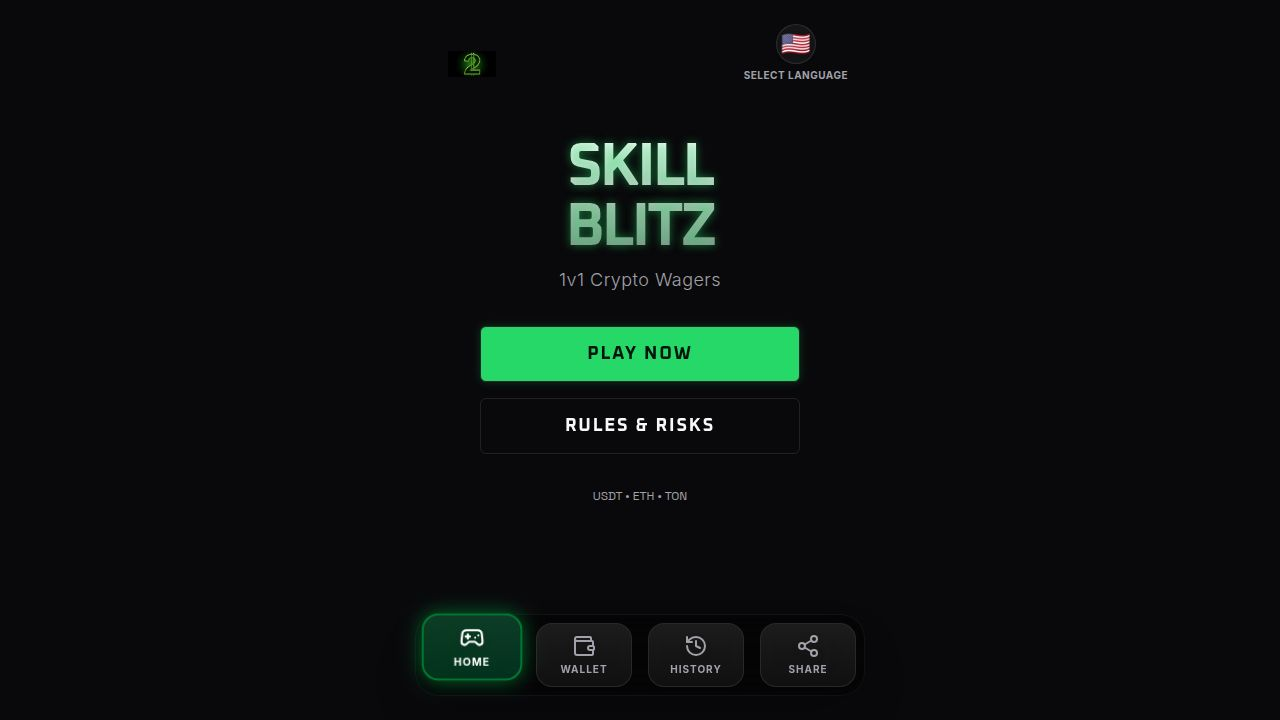
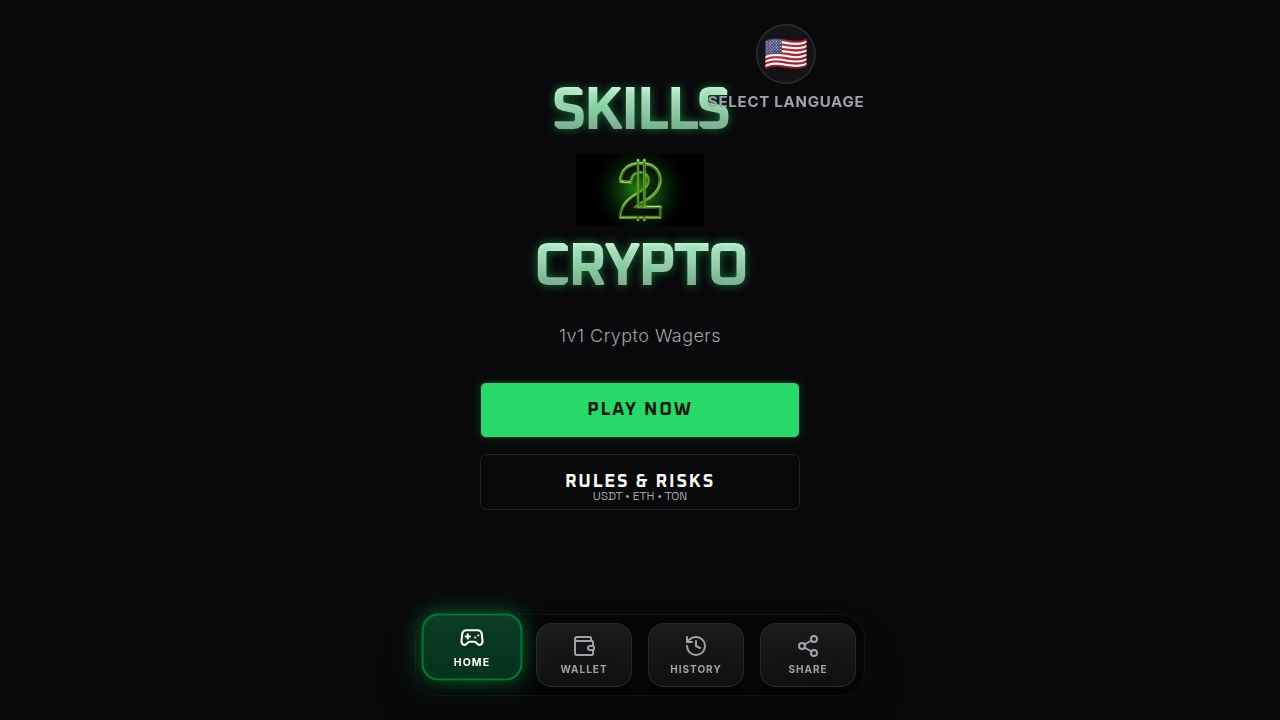
Adjust landing screen layout and language selector positioning
Modify client/src/pages/Landing.tsx to remove the top-left logo, increase the language selector size and adjust its position, and tightly group the "SKILLS", "CRYPTO", and central logo elements.

Replit-Commit-Author: Agent
Replit-Commit-Session-Id: 280d85b1-a461-47bc-9a92-12e754530513
Replit-Commit-Checkpoint-Type: full_checkpoint
Replit-Commit-Event-Id: 264f49da-99c0-47d1-8761-483f1fe1abbb
Replit-Commit-Screenshot-Url: https://storage.googleapis.com/screenshot-production-us-central1/e40704a0-e6e0-48db-a69e-6cdf3f1904ce/280d85b1-a461-47bc-9a92-12e754530513/JxTHpAb
Replit-Helium-Checkpoint-Created: true

diff --git a/client/src/pages/Landing.tsx b/client/src/pages/Landing.tsx
@@ -10,10 +10,7 @@ export default function Landing() {
 
   return (
     <div className="flex flex-col items-center justify-center min-h-[80vh] space-y-8 text-center relative">
-      <div className="fixed top-2 left-[-10px] z-50">
-        <img src={logoImage} alt="Logo" className="w-36 h-36 object-contain" />
-      </div>
-      <div className="absolute top-0 right-0">
+      <div className="absolute top-0 right-[-1rem] transform scale-150 origin-top-right z-50">
         <LanguageSelector />
       </div>
 
@@ -23,16 +20,16 @@ export default function Landing() {
         transition={{ duration: 0.5 }}
         className="space-y-2"
       >
-        <div className="flex flex-col items-center justify-center gap-2">
-          <h1 className="text-6xl font-display font-bold tracking-tighter text-transparent bg-clip-text bg-gradient-to-b from-white to-white/50 text-glow">
+        <div className="flex flex-col items-center justify-center gap-0">
+          <h1 className="text-6xl font-display font-bold tracking-tighter text-transparent bg-clip-text bg-gradient-to-b from-white to-white/50 text-glow leading-none -mb-4 z-10">
             SKILLS
           </h1>
-          <img src={logoImage} alt="2" className="w-32 h-32 object-contain py-2" />
-          <h1 className="text-6xl font-display font-bold tracking-tighter text-transparent bg-clip-text bg-gradient-to-b from-white to-white/50 text-glow">
+          <img src={logoImage} alt="2" className="w-32 h-32 object-contain relative z-0" />
+          <h1 className="text-6xl font-display font-bold tracking-tighter text-transparent bg-clip-text bg-gradient-to-b from-white to-white/50 text-glow leading-none -mt-4 z-10">
             CRYPTO
           </h1>
         </div>
-        <p className="text-muted-foreground text-lg font-light tracking-wide">
+        <p className="text-muted-foreground text-lg font-light tracking-wide pt-4">
           {t('1v1 Crypto Wagers', '1v1 Crypto Wagers')}
         </p>
       </motion.div>
